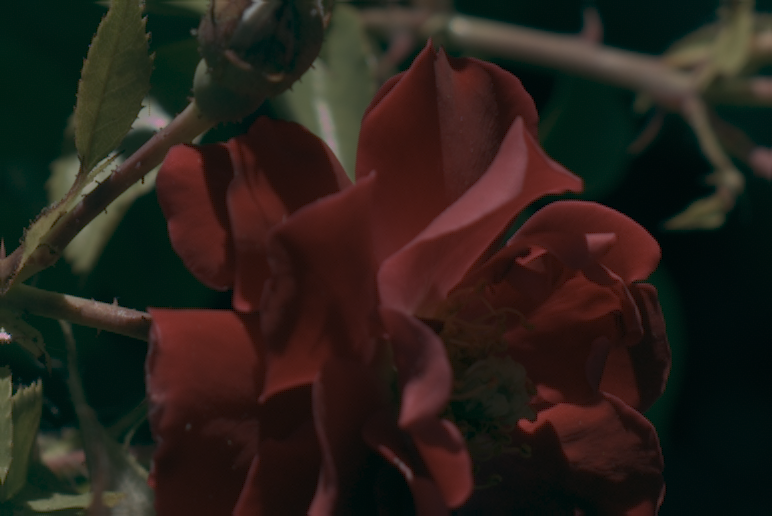
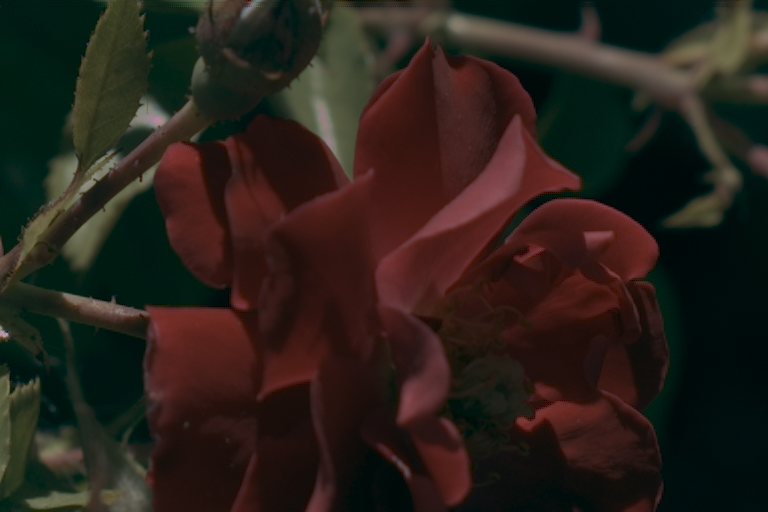
initial bayer denoising is written. parameter tuning later.

diff --git a/imaging.py b/imaging.py
@@ -734,8 +734,15 @@ class bayer_denoising:
         self.data = np.float32(data)
         self.name = name
 
-    def utilize_hvs_behavior(self, bayer_pattern):
-        # Based on paper titled "Noise Reduction for CFA Image Sensors
+    def utilize_hvs_behavior(self, bayer_pattern, neighborhood_size, initial_noise_level, hvs_min, hvs_max, clip_range, threshold_red_blue):
+        # Objective: bayer denoising
+        # Inputs:
+        #   bayer_pattern:  rggb, gbrg, grbg, bggr
+        #   neighborhood_size: 5 or 9
+        #   initial_noise_level:
+        # Output:
+        #   denoised bayer raw output
+        # Source: Based on paper titled "Noise Reduction for CFA Image Sensors
         #   Exploiting HVS Behaviour," by Angelo Bosco, Sebastiano Battiato,
         #   Arcangelo Bruna and Rosetta Rizzo
         #   Sensors 2009, 9, 1692-1713; doi:10.3390/s90301692
@@ -746,6 +753,7 @@ class bayer_denoising:
         # copy the self.data to raw and we will only work on raw
         # to make sure no change happen to self.data
         raw = self.data
+        raw = np.clip(raw, clip_range[0], clip_range[1])
         width, height = utility.get_width_height(raw)
 
         # First make the bayer_pattern rggb
@@ -755,13 +763,166 @@ class bayer_denoising:
         if (bayer_pattern != "rggb"):
             raw = utility.shuffle_bayer_pattern(self.data, bayer_pattern, "rggb")
 
+        # check neighborhood_size
+        if ((neighborhood_size != 5) and (neighborhood_size != 7)):
+            print("neighborhood_size must be 5 or 9")
+            return raw
+
         # pad two pixels at the border
-        no_of_pixel_pad = 2     # number of pixels to pad
+        no_of_pixel_pad = math.floor(neighborhood_size)   # number of pixels to pad
         raw = np.pad(raw, \
                      (no_of_pixel_pad, no_of_pixel_pad),\
                      'reflect') # reflect would not repeat the border value
 
-        return raw
+        # allocating space for denoised output
+        denoised_out = np.empty((height, width), dtype=np.float32)
+        if (neighborhood_size == 5):
+
+            for i in range(no_of_pixel_pad, height + no_of_pixel_pad):
+                for j in range(no_of_pixel_pad, width + no_of_pixel_pad):
+
+                    # center pixel
+                    center_pixel = raw[i, j]
+
+                    # signal analyzer block
+                    half_max = clip_range[1] / 2
+                    if (center_pixel <= half_max):
+                        hvs_weight = -(((hvs_max - hvs_min) * center_pixel) / half_max) + hvs_max
+                    else:
+                        hvs_weight = (((center_pixel - clip_range[1]) * (hvs_max - hvs_min))/(clip_range[1] - half_max)) + hvs_max
+
+                    # noise level estimator previous value
+                    if (j < no_of_pixel_pad+2):
+                        noise_level_previous_red   = initial_noise_level
+                        noise_level_previous_blue  = initial_noise_level
+                        noise_level_previous_green = initial_noise_level
+                    else:
+                        noise_level_previous_green = noise_level_current_green
+                        if ((i % 2) == 0):
+                            noise_level_previous_red = noise_level_current_red
+                        else:
+                            noise_level_previous_blue = noise_level_current_blue
+
+                    # Processings depending on Green or Red/Blue
+                    # Red
+                    if (((i % 2) == 0) and ((j % 2) == 0)):
+
+                        # get neighborhood
+                        neighborhood = [raw[i-2, j-2], raw[i-2, j], raw[i-2, j+2],\
+                                        raw[i, j-2], raw[i, j+2],\
+                                        raw[i+2, j-2], raw[i+2, j], raw[i+2, j+2]]
+
+                        # absolute difference from the center pixel
+                        d =  np.abs(neighborhood - center_pixel)
+
+                        # maximum and minimum difference
+                        d_max = np.max(d)
+                        d_min = np.min(d)
+
+                        # calculate texture_threshold
+                        texture_threshold = hvs_weight + noise_level_previous_red
+
+                        # texture degree analyzer
+                        if (d_max <= threshold_red_blue):
+                            texture_degree = 1.
+                        elif (d_max > threshold_red_blue) and (d_max <= texture_threshold):
+                            texture_degree = -((d_max - threshold_red_blue) / (texture_threshold - threshold_red_blue)) + 1.
+                        else:
+                            texture_degree = 0.
+
+                        # noise level estimator update
+                        noise_level_current_red = texture_degree * d_max + (1 - texture_degree) * noise_level_previous_red
+
+                    # Blue
+                    elif (((i % 2) != 0) and ((j % 2) != 0)):
+
+                        # get neighborhood
+                        neighborhood = [raw[i-2, j-2], raw[i-2, j], raw[i-2, j+2],\
+                                        raw[i, j-2], raw[i, j+2],\
+                                        raw[i+2, j-2], raw[i+2, j], raw[i+2, j+2]]
+
+                        # absolute difference from the center pixel
+                        d =  np.abs(neighborhood - center_pixel)
+
+                        # maximum and minimum difference
+                        d_max = np.max(d)
+                        d_min = np.min(d)
+
+                        # calculate texture_threshold
+                        texture_threshold = hvs_weight + noise_level_previous_blue
+
+                        # texture degree analyzer
+                        if (d_max <= threshold_red_blue):
+                            texture_degree = 1.
+                        elif (d_max > threshold_red_blue) and (d_max <= texture_threshold):
+                            texture_degree = -((d_max - threshold_red_blue) / (texture_threshold - threshold_red_blue)) + 1.
+                        elif (d_max > texture_threshold):
+                            texture_degree = 0.
+
+                        # noise level estimator update
+                        noise_level_current_blue = texture_degree * d_max + (1 - texture_degree) * noise_level_previous_blue
+
+                    # Green
+                    else:
+                        neighborhood = [raw[i-2, j-1], raw[i-2, j+1],\
+                                        raw[i-1, j-2], raw[i-1, j], raw[i-1, j+2],\
+                                        raw[i, j-1], raw[i, j+1],\
+                                        raw[i+1, j-2], raw[i+1, j], raw[i+1, j+2],\
+                                        raw[i+2, j-1], raw[i+2, j+1]]
+
+                        # difference from the center pixel
+                        d = np.abs(neighborhood - center_pixel)
+
+                        # maximum and minimum difference
+                        d_max = np.max(d)
+                        d_min = np.min(d)
+
+                        # calculate texture_threshold
+                        texture_threshold = hvs_weight + noise_level_previous_green
+
+                        # texture degree analyzer
+                        if (d_max == 0):
+                            texture_degree = 1.
+                        elif ((d_max > 0) and (d_max <= texture_threshold)):
+                            texture_degree = -(d_max / texture_threshold) + 1.
+                        elif (d_max > texture_threshold):
+                            texture_degree = 0.
+
+                        # noise level estimator update
+                        noise_level_current_green = texture_degree * d_max + (1 - texture_degree) * noise_level_previous_green
+
+                    # similarity threshold calculation
+                    if (texture_degree == 1):
+                        threshold_low = threshold_high = d_max
+                    elif (texture_degree == 0):
+                        threshold_low = d_min
+                        threshold_high = (d_max + d_min) / 2
+                    else:
+                        threshold_high = (d_max + (d_max + d_min) / 2) / 2
+                        threshold_low = (d_min + threshold_high) / 2
+
+                    # weight computation
+                    weight = np.empty(np.size(d), dtype=np.float32)
+                    pf = 0.
+                    for i in range(0, np.size(d)):
+                        if (d[i] <= threshold_low):
+                            weight[i] = 1.
+                        elif (d[i] > threshold_high):
+                            weight[i] = 0.
+                        else:
+                            weight[i] = 1. + (d[i] - threshold_low) / (threshold_low - threshold_high)
+
+                        pf += weight[i] * neighborhood[i] + (1. - weight[i]) * center_pixel
+
+                    denoised_out[i - no_of_pixel_pad, j-no_of_pixel_pad] = pf / np.size(d)
+
+        elif (neighborhood_size == 9):
+            pass
+
+        if (bayer_pattern != "rggb"):
+            denoised_out = utility.shuffle_bayer_pattern(denoised_out, "rggb", bayer_pattern)
+
+        return np.clip(denoised_out, clip_range[0], clip_range[1])
 
     def __str__(self):
         pass

diff --git a/main.py b/main.py
@@ -67,7 +67,13 @@ utility.imsave(data, "images/out_channel_gain_white_balance.png", "uint16")
 # Bayer denoising
 # ===================================
 temp = imaging.bayer_denoising(data)
-data = temp.utilize_hvs_behavior("rggb")
+neighborhood_size = 5
+initial_noise_level = 65535/10
+hvs_min = 1000
+hvs_max = 60000
+clip_range = [0, 65535]
+threshold_red_blue = 100
+data = temp.utilize_hvs_behavior(raw.get_bayer_pattern(), neighborhood_size, initial_noise_level, hvs_min, hvs_max, clip_range, threshold_red_blue)
 utility.imsave(data, "images/out_bayer_denoising.png", "uint16")
 
 # ===================================
